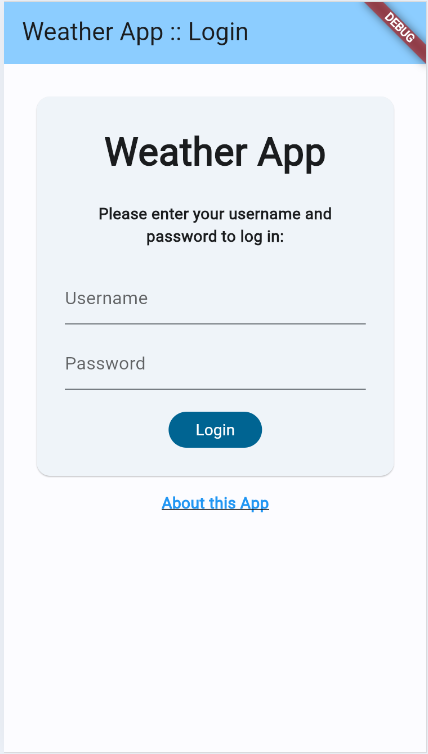
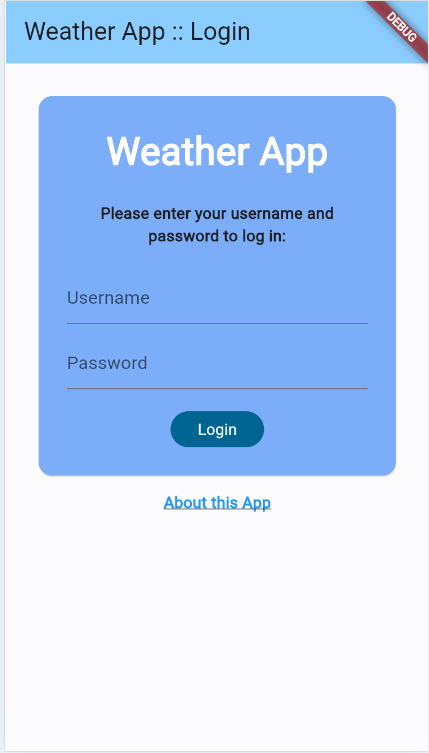
Adding more features...

diff --git a/lib/pages/weather_page.dart b/lib/pages/weather_page.dart
@@ -1,3 +1,5 @@
+import 'dart:convert';
+
 import 'package:flutter/material.dart';
 import 'package:geolocator/geolocator.dart';
 import 'package:lottie/lottie.dart';
@@ -21,6 +23,7 @@ class _WeatherPageState extends State<WeatherPage> {
   WeatherModel? weather;
   bool _loading = true;
   String currentTime = "";
+  String? forecast;
 
   Future<void> _getCurrentLocation() async {
     Position position = await GeoLocationService.determinePosition();
@@ -30,7 +33,39 @@ class _WeatherPageState extends State<WeatherPage> {
   }
 
   void _getCurrentDateTime() {
-    currentTime = DateFormat.jm().format(DateTime.now());
+    currentTime =
+        "${DateFormat.yMMMEd().format(DateTime.now())} ${DateFormat.jm().format(DateTime.now())}";
+  }
+
+  _buildForecast(items) {
+    var json = jsonDecode(items);
+    var elements = [];
+
+    for (var el in json) {
+      elements.add({
+        "dt": el["dt_txt"].toString().substring(11, 16),
+        "temp": "${el["main"]["temp"].round().toString()}ºC",
+        "icon": el["weather"][0]["icon"].toString().replaceAll("n", "d")
+      });
+    }
+    return Padding(
+      padding: const EdgeInsets.all(8.0),
+      child: Row(
+        children: [
+          for (var i in elements.sublist(0, 5))
+            Expanded(
+              child: Column(
+                children: [
+                  Text(i["dt"]),
+                  Image.network(
+                      "https://openweathermap.org/img/wn/${i['icon']}@2x.png"),
+                  Text(i["temp"]),
+                ],
+              ),
+            )
+        ],
+      ),
+    );
   }
 
   Future<void> _getWeather() async {
@@ -39,7 +74,12 @@ class _WeatherPageState extends State<WeatherPage> {
     }
     final currentWeather =
         await WeatherService.fetchWeather(pos!.latitude, pos!.longitude);
+
+    Map response =
+        await WeatherService.fetchForecast(pos!.latitude, pos!.longitude);
+
     setState(() {
+      forecast = jsonEncode(response["list"]);
       weather = currentWeather;
       _loading = false;
     });
@@ -93,58 +133,74 @@ class _WeatherPageState extends State<WeatherPage> {
       body: Center(
         child: _loading
             ? const CircularProgressIndicator()
-            :
-                Container(
-                  alignment: Alignment.center,
-                  width: double.infinity,
-                  height: double.infinity,
-                  decoration: BoxDecoration(
-                    gradient: LinearGradient(
-                      begin: Alignment.topRight,
-                      end: Alignment.bottomLeft,
-                      stops: const [0.2, 0.5, 0.7, 0.8],
-                      colors: [
-                        Colors.blue.shade50,
-                        Colors.blue.shade100,
-                        Colors.blue.shade200,
-                        Colors.blue.shade300
-                      ],
-                    ),
+            : Container(
+                alignment: Alignment.center,
+                width: double.infinity,
+                height: double.infinity,
+                decoration: BoxDecoration(
+                  gradient: LinearGradient(
+                    begin: Alignment.topRight,
+                    end: Alignment.bottomLeft,
+                    stops: const [0.2, 0.5, 0.7, 0.8],
+                    colors: [
+                      Colors.blue.shade50,
+                      Colors.blue.shade100,
+                      Colors.blue.shade200,
+                      Colors.blue.shade300
+                    ],
                   ),
-                  child: SingleChildScrollView(
-                    child: Column(
-                      mainAxisAlignment: MainAxisAlignment.center,
-                      children: [
-                        Text(weather!.city,
-                            style: const TextStyle(
-                                fontSize: 28, fontWeight: FontWeight.bold)),
-                        Text(currentTime),
-                        Lottie.asset(_getWeatherAnimation(weather!.condition),
-                            width: 150, height: 150),
-                        Text(weather!.condition, style: const TextStyle(fontWeight: FontWeight.bold)),
-                        Text(weather!.description.toTitleCase()),
-                        Text(
-                          "${weather!.temperature.round()}ºC",
+                ),
+                child: SingleChildScrollView(
+                  child: Column(
+                    mainAxisAlignment: MainAxisAlignment.center,
+                    children: [
+                      Text(weather!.city,
                           style: const TextStyle(
-                              fontSize: 20, fontWeight: FontWeight.bold),
-                        ),
-                      ],
-                    ),
+                              fontSize: 35, fontWeight: FontWeight.bold)),
+                      Text(currentTime),
+                      Lottie.asset(_getWeatherAnimation(weather!.condition),
+                          width: 100, height: 100),
+                      Text(weather!.condition,
+                          style: const TextStyle(fontWeight: FontWeight.bold)),
+                      Text(weather!.description.toTitleCase()),
+                      Text(
+                        "${weather!.temperature.round()}ºC",
+                        style: const TextStyle(
+                            fontSize: 35, fontWeight: FontWeight.bold),
+                      ),
+                      const Text(
+                        "Min / Max Temp",
+                        style: TextStyle(fontWeight: FontWeight.bold),
+                      ),
+                      Text(
+                          "${weather!.tempMin.round()}ºC / ${weather!.tempMax.round()}ºC"),
+                      const Text(
+                        "Feels like",
+                        style: TextStyle(fontWeight: FontWeight.bold),
+                      ),
+                      Text("${weather!.feelsLike.round()}ºC"),
+                      _loading
+                          ? const CircularProgressIndicator()
+                          : Padding(
+                              padding: const EdgeInsets.all(40.0),
+                              child: Card(
+                                child: _buildForecast(forecast),
+                                color: Colors.blueAccent.shade100,
+                              ),
+                            ),
+                      const SizedBox(
+                        height: 70,
+                      )
+                    ],
                   ),
+                ),
               ),
       ),
       floatingActionButton: FloatingActionButton.extended(
           onPressed: () {
-            setState(() {
-              _loading = true;
-            });
+            _loading = true;
             _getCurrentLocation();
             _getWeather();
-            Future.delayed(const Duration(seconds: 3), () {
-              setState(() {
-                _loading = false;
-              });
-            });
           },
           icon: const Icon(Icons.refresh),
           label: const Text("Refresh")),

diff --git a/lib/services/weather_service.dart b/lib/services/weather_service.dart
@@ -7,19 +7,36 @@ import 'package:http/http.dart' as http;
 class WeatherService {
   static const API_KEY = OPENWEATHER_API_KEY;
 
-  static const BASE_URL = BASE_OPENWEATHER_URL;
+  static const BASE_WEATHER_URL = BASE_OPENWEATHER_URL;
+  static const BASE_FORECAST_URL = BASE_OPENWEATHER_FORECAST_URL;
 
-  static String _buildURL(String lat, String lon) {
-    return "${BASE_URL}lat=$lat&lon=$lon&units=metric&appid=$API_KEY";
+  static String _buildWeatherURL(String lat, String lon) {
+    return "${BASE_WEATHER_URL}lat=$lat&lon=$lon&units=metric&appid=$API_KEY";
+  }
+
+  static String _buildForecastURL(String lat, String lon) {
+    return "${BASE_FORECAST_URL}lat=$lat&lon=$lon&units=metric&appid=$API_KEY";
   }
 
   static Future<WeatherModel> fetchWeather(double lat, double lon) async {
-    String formattedURL = _buildURL(lat.toString(), lon.toString());
+    String formattedURL = _buildWeatherURL(lat.toString(), lon.toString());
 
     final response = await http.get(Uri.parse(formattedURL));
 
-    if(response.statusCode == 200) {
+    if (response.statusCode == 200) {
       return WeatherModel.fromJson(jsonDecode(response.body));
+    } else {
+      throw Exception("Error trying to load weather data.");
+    }
+  }
+
+  static Future<Map> fetchForecast(double lat, double lon) async {
+    String formattedURL = _buildForecastURL(lat.toString(), lon.toString());
+
+    final response = await http.get(Uri.parse(formattedURL));
+
+    if (response.statusCode == 200) {
+      return jsonDecode(response.body);
     } else {
       throw Exception("Error trying to load weather data.");
     }

diff --git a/lib/main.dart b/lib/main.dart
@@ -65,8 +65,6 @@ class _MyHomePageState extends State<MyHomePage> {
       _usernameController.clear();
       _passwordController.clear();
       FocusScope.of(context).unfocus();
-      ScaffoldMessenger.of(context).showSnackBar(const SnackBar(
-          content: Text("Username and password are correct. Redirecting...")));
       Navigator.of(context).push(MaterialPageRoute(
         builder: (context) => const WeatherPage(),
       ));
@@ -91,6 +89,7 @@ class _MyHomePageState extends State<MyHomePage> {
             child: Column(
               children: [
                 Card(
+                  color: Colors.blueAccent.shade100,
                   child: Padding(
                     padding: const EdgeInsets.all(25.0),
                     child: Form(
@@ -101,7 +100,9 @@ class _MyHomePageState extends State<MyHomePage> {
                             "Weather App",
                             textAlign: TextAlign.center,
                             style: TextStyle(
-                                fontSize: 34, fontWeight: FontWeight.bold),
+                                color: Colors.white,
+                                fontSize: 34,
+                                fontWeight: FontWeight.bold),
                           ),
                           const SizedBox(
                             height: 20,

diff --git a/lib/models/weather_model.dart b/lib/models/weather_model.dart
@@ -3,14 +3,28 @@ class WeatherModel {
   final double temperature;
   final String condition;
   final String description;
+  final double feelsLike;
+  final double tempMin;
+  final double tempMax;
 
-  WeatherModel({required this.city, required this.temperature, required this.condition, required this.description});
+  WeatherModel(
+      {required this.city,
+      required this.temperature,
+      required this.condition,
+      required this.description,
+      required this.feelsLike,
+      required this.tempMin,
+      required this.tempMax});
 
   factory WeatherModel.fromJson(Map<String, dynamic> json) {
-    return WeatherModel(city: json["name"], 
-    temperature: json["main"]["temp"].toDouble(), 
-    condition: json["weather"][0]["main"],
-    description: json["weather"][0]["description"]
+    return WeatherModel(
+      city: json["name"],
+      temperature: json["main"]["temp"].toDouble(),
+      condition: json["weather"][0]["main"],
+      description: json["weather"][0]["description"],
+      feelsLike: json["main"]["feels_like"].toDouble(),
+      tempMin: json["main"]["temp_min"].toDouble(),
+      tempMax: json["main"]["temp_max"].toDouble(),
     );
   }
 }

diff --git a/lib/constants/constants.dart b/lib/constants/constants.dart
@@ -23,9 +23,15 @@ class Conditions {
 }
 
 const BASE_OPENWEATHER_URL = "https://api.openweathermap.org/data/2.5/weather?";
+const BASE_OPENWEATHER_FORECAST_URL =
+    "https://api.openweathermap.org/data/2.5/forecast?";
 const OPENWEATHER_API_KEY = "caa2ef62488f84f87dc69bcc2d72778e";
 
 extension StringCasingExtension on String {
-  String toCapitalized() => length > 0 ?'${this[0].toUpperCase()}${substring(1).toLowerCase()}':'';
-  String toTitleCase() => replaceAll(RegExp(' +'), ' ').split(' ').map((str) => str.toCapitalized()).join(' ');
+  String toCapitalized() =>
+      length > 0 ? '${this[0].toUpperCase()}${substring(1).toLowerCase()}' : '';
+  String toTitleCase() => replaceAll(RegExp(' +'), ' ')
+      .split(' ')
+      .map((str) => str.toCapitalized())
+      .join(' ');
 }

diff --git a/README.md b/README.md
@@ -15,10 +15,10 @@ Username: Fred
 
 Password: 1234
 
-![screenshot](https://i.imgur.com/XFxBOpD.png)
+![screenshot](https://i.imgur.com/Rqb62T4.png)
 
 2) After entering the username and password, the user can click the Login button and go the main screen:
 
 The user can see the current Weather conditions:
 
-![screenshot](https://i.imgur.com/wvrvYsy.png)
+![screenshot](https://i.imgur.com/n0FscAe.png)
